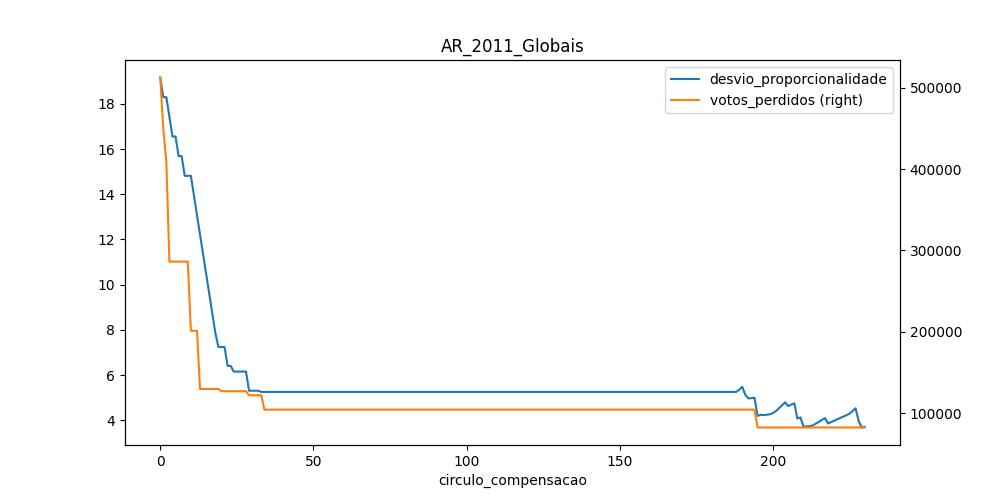
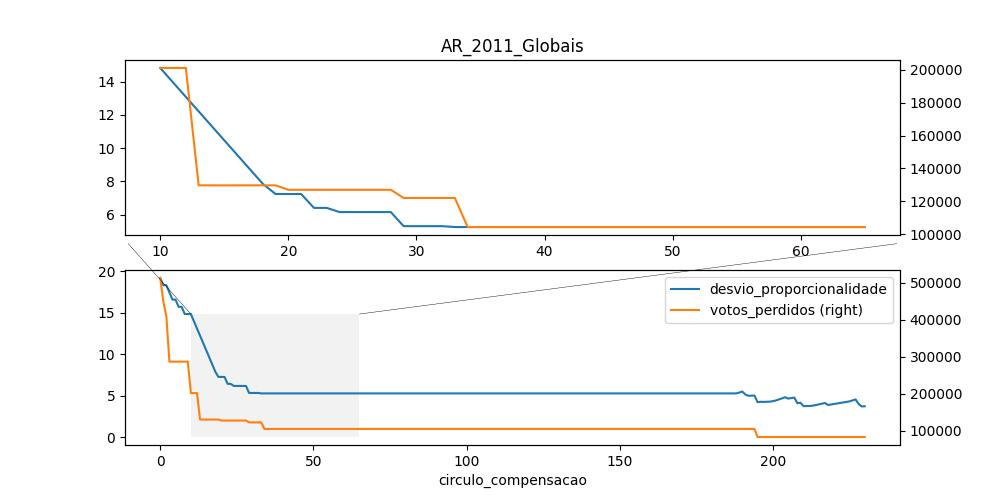
melhoria plots

diff --git a/script_final.py b/script_final.py
@@ -1,5 +1,6 @@
 import pandas as pd
 import matplotlib.pyplot as plt
+from matplotlib.patches import ConnectionPatch
 import janitor
 import os
 import re
@@ -166,13 +167,41 @@ def metodo_hondt(df_mandatos, df_votos, circ_comp):
     
     return df_hondt, df_perdidos
 
-
 # Desenhar gráfico com votos perdidos e desvio de proporcionalidade por tamanho do círculo de compensação
-def plot_desvios(df_desvios, eleicoes):
-    fig, ax = plt.subplots(figsize = (10, 5)) 
-    df_desvios.plot(x = 'circulo_compensacao', y = 'desvio_proporcionalidade', ax = ax, title = eleicoes) 
-    df_desvios.plot(x = 'circulo_compensacao', y = 'votos_perdidos', ax = ax, secondary_y = True) 
-    fig.savefig(f'plots\\{eleicoes}.jpg')
+def plot_desvios(df_desvios, eleicao):
+    # Criar 2 plots
+    fig, (ax0, ax1) = plt.subplots(2,1,figsize = (10, 5)) 
+
+    # Dados detalhe
+    df_desvios_focus = df_desvios.loc[(df_desvios['circulo_compensacao']>=10)&(df_desvios['circulo_compensacao']<=65)]
+
+    # Gráfico detalhe
+    df_desvios_focus.plot(x = 'circulo_compensacao', y = 'desvio_proporcionalidade', ax = ax0, title = eleicao, ),  
+    df_desvios_focus.plot(x = 'circulo_compensacao', y = 'votos_perdidos', ax = ax0, secondary_y = True)
+    ax0.set(xlabel=None)
+    ax0.get_legend().remove()
+
+    # Gráfico total
+    df_desvios.plot(x = 'circulo_compensacao', y = 'desvio_proporcionalidade', ax = ax1) 
+    df_desvios.plot(x = 'circulo_compensacao', y = 'votos_perdidos', ax = ax1, secondary_y = True)    
+
+    # Área zoom
+    ax1.fill_between((10,65), 0, max(df_desvios_focus['desvio_proporcionalidade']), facecolor='grey', alpha=0.1)
+
+    # Linha esquerda
+    con1 = ConnectionPatch(xyA=(10, max(df_desvios_focus['desvio_proporcionalidade'])), coordsA=ax1.transData, 
+                        xyB=(7.5, min(df_desvios_focus['desvio_proporcionalidade'])-1), coordsB=ax0.transData, color = 'black')
+    con1.set_linewidth(0.3)
+    fig.add_artist(con1)
+
+    # Linha direita
+    con2 = ConnectionPatch(xyA=(65, max(df_desvios_focus['desvio_proporcionalidade'])), coordsA=ax1.transData, 
+                        xyB=(67.5, min(df_desvios_focus['desvio_proporcionalidade'])-1), coordsB=ax0.transData, color = 'black')
+    con2.set_linewidth(0.3)
+    fig.add_artist(con2)
+
+    fig.savefig(f'plots\\{eleicao}.jpg')
+    return 0
 
 
 def simular_eleicao(df_mandatos, df_votos, lista_tamanhos_cc, tamanho_circulo_minimo, eleicao):
@@ -210,18 +239,18 @@ def main(eleicoes, tamanho_circulo_minimo, lista_tamanhos_cc = range(0, 231)):
 
     return erro
 
-# Simular sequência de tamanhos do círculo de compensação (min, max+1, step)
-#lista_tamanhos_cc = range(0, 231, 1)
+# Simular sequência de tamanhos do círculo de compensação (min, max+1, [step])
+lista_tamanhos_cc = range(0, 231, 1)
 
 # Simular um tamanho
-lista_tamanhos_cc = [37]
+#lista_tamanhos_cc = [37]
 
 # Mínimo de mandatos por círculo distrital
 tamanho_circulo_minimo = 2
 
 # Listar eleições a simular
 eleicoes = os.listdir('eleicoes')
-eleicoes = [eleicoes[3]]
+#eleicoes = [eleicoes[3]]
 
 if __name__ == "__main__":
    main(eleicoes, tamanho_circulo_minimo, lista_tamanhos_cc)
